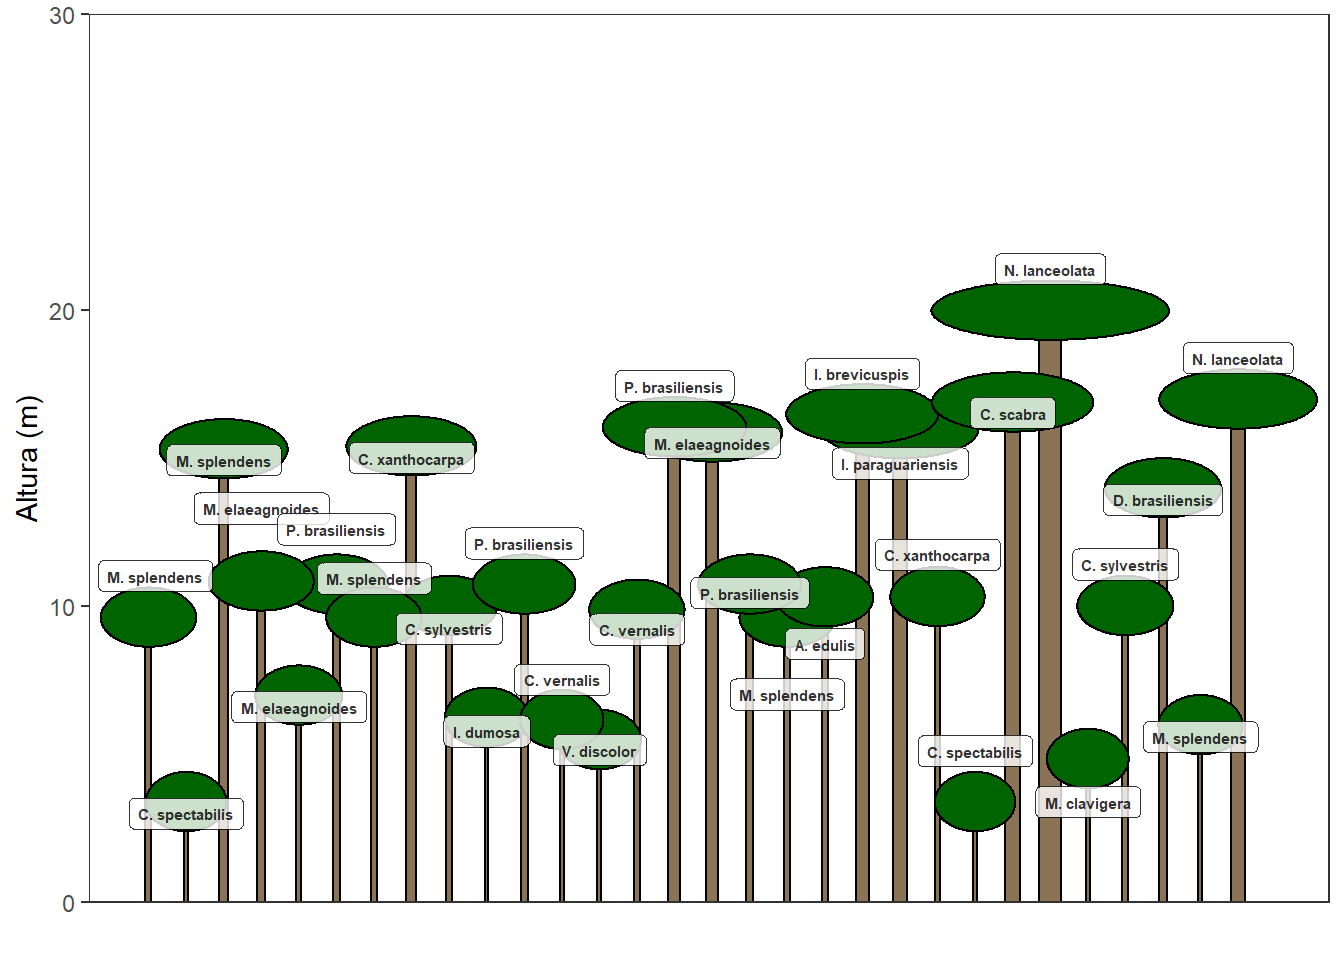
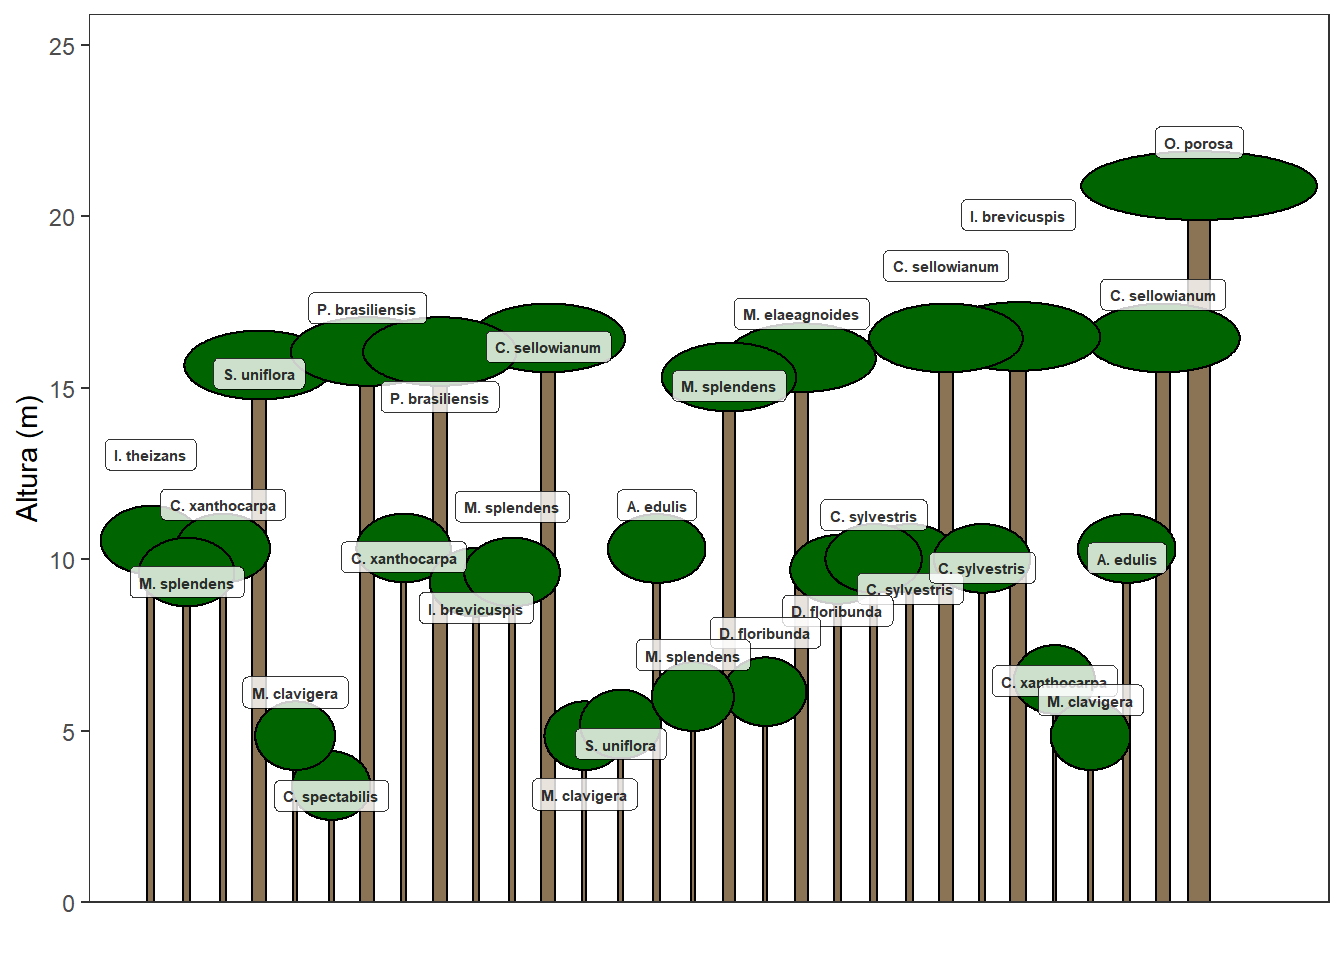
post perfil esquemático

diff --git a/content/post/2019-10-31-representando-o-perfil-esquematico-de-uma-comunidade-florestal.html b/content/post/2019-10-31-representando-o-perfil-esquematico-de-uma-comunidade-florestal.html
@@ -18,7 +18,6 @@ image:
   focal_point: ''
   preview_only: no
 projects: []
-draft: true
 
 ---
 
@@ -43,10 +42,10 @@ head(dados)</code></pre>
 ## 4       1 Myrcia s~ M. splendens Myrtac~  18.5  5.89     7 Sub-bosque      
 ## 5       1 Myrcia s~ M. splendens Myrtac~  21    6.68     9 Intermediário   
 ## 6       1 Maytenus~ M. evonymoi~ Celast~  46   14.6     10 Intermediário</code></pre>
-<p>Os dados são oriundos de 30 unidades amostrais medidas em uma fragmento de Floresta Ombrófila Mista (mata de araucária) no Paraná. Para cada indivíduo amostrado nas parcelas, foram medidas a CAP (circunferência à altura do peito) e a altura total, além da determinação do epíteto botânico e do estrato vertical em que se encontrava no momento do levantamento.<br />
-O procedimento basicamente se dá nos seguintes passos:<br />
-1. Obter altura e DAP médios para cada espécie em cada estrato;
-2. Contabilizar número de ocorrências de cada espécie em cada estrato;
+<p>Os dados são oriundos de 30 unidades amostrais medidas em uma fragmento de Floresta Ombrófila Mista (mata de araucária) no Paraná. Para cada indivíduo amostrado nas parcelas, foram medidas a CAP (circunferência à altura do peito) e a altura total, além da determinação do epíteto botânico e do estrato vertical em que se encontrava no momento do levantamento.</p>
+<p>O procedimento basicamente se dá nos seguintes passos:<br />
+1. Obter altura e DAP médios para cada espécie em cada estrato;<br />
+2. Contabilizar número de ocorrências de cada espécie em cada estrato;<br />
 3. Contabilizar proporção de indivíduos em cada estrato;<br />
 4. Gerar indivíduos a serem ilustrados sorteando a espécie e o estrato, com base em probabilidades geradas a partir dos dados coletados;<br />
 5. Plotar os indivíduos sorteados considerando os valores de altura e diâmetro médios de cada espécie em cada estrato.</p>
@@ -93,7 +92,7 @@ sample$dap01 &lt;- (sample$dap-min(sample$dap))/(max(sample$dap)-min(sample$dap)
 sample$id &lt;- sample(1:narv,narv)
 id_sp &lt;- unique(sample$especie)
 sample$id_sp &lt;- match(sample$especie,id_sp)
-
+# Carregar pacotes necessários
 library(ggplot2)
 library(ggforce)
 library(ggrepel)
@@ -105,7 +104,7 @@ perfil &lt;- ggplot(sample)+
                    b=1,angle=0), fill = &#39;darkgreen&#39;)+
   geom_label_repel(aes(x=id,y=h.med+.5,label=especie), direction = &#39;y&#39;, fontface = &#39;bold&#39;,  size = 2, alpha=.8, segment.alpha = 0)+
   scale_x_continuous(breaks = 1:narv, expand = c(.01,0))+
-  scale_y_continuous(expand=c(0,0), limits = c(0,30))+
+  scale_y_continuous(expand=c(0,0), limits = c(0,max(sample$h.med)+5))+
   xlab(&#39;&#39;)+
   ylab(&#39;Altura (m)&#39;)+
   theme_bw()+
@@ -126,10 +125,8 @@ perfil_esquematico(quantidade_de_arvores)</code></pre>
 <p><img src="/post/2019-10-31-representando-o-perfil-esquematico-de-uma-comunidade-florestal_files/figure-html/unnamed-chunk-4-1.png" width="672" />
 Podemos também variar a quantidade de indivíduos.</p>
 <pre class="r"><code># Executar função
-perfil_esquematico(45)</code></pre>
-<p><img src="/post/2019-10-31-representando-o-perfil-esquematico-de-uma-comunidade-florestal_files/figure-html/unnamed-chunk-5-1.png" width="672" /></p>
-<pre class="r"><code>perfil_esquematico(15)</code></pre>
-<p><img src="/post/2019-10-31-representando-o-perfil-esquematico-de-uma-comunidade-florestal_files/figure-html/unnamed-chunk-5-2.png" width="672" />
+perfil_esquematico(20)</code></pre>
+<p><img src="/post/2019-10-31-representando-o-perfil-esquematico-de-uma-comunidade-florestal_files/figure-html/unnamed-chunk-5-1.png" width="672" />
 Como o procedimento de sorteio arredonda o número de árvores a serem sorteadas em cada estrato vertical (afinal não temos como sortear 1,5 árvores) a função pode retornar um erro caso quantidade total de árvores sorteadas seja inferior ao número declarado na função.
 A função pode ser customizada de inúmeras maneiras. Utilizei um cálculo genérico para gerar o diâmetro das copas pois não possuo esses registros na base de dados utilizada nesse exemplo, no entanto, altura e diâmetro de copa, se coletados, podem ser utilizados para dimensionar as elipses que representam as copas das árvores. A função <code>geom_ellipse</code> que plota as elipses está implementada no pacote <code>ggforce</code>.<br />
 Os nomes científicos são apresentados no gráfico via função <code>geom_label_repel</code> do pacote <code>ggrepel</code>. A diferença entre esta função e a <code>geom_label</code> do <code>ggplot</code> é que a primeira não permite a sobreposição dos labels, facilitando a visualização. Outra opção é plotar um número de identificação ao invés do nome, diminuindo a quantidade de textos no gráfico. Neste caso, seria necessário apresentar, na sequência do gráfico, uma tabela que vincula os números às espécies.</p>
